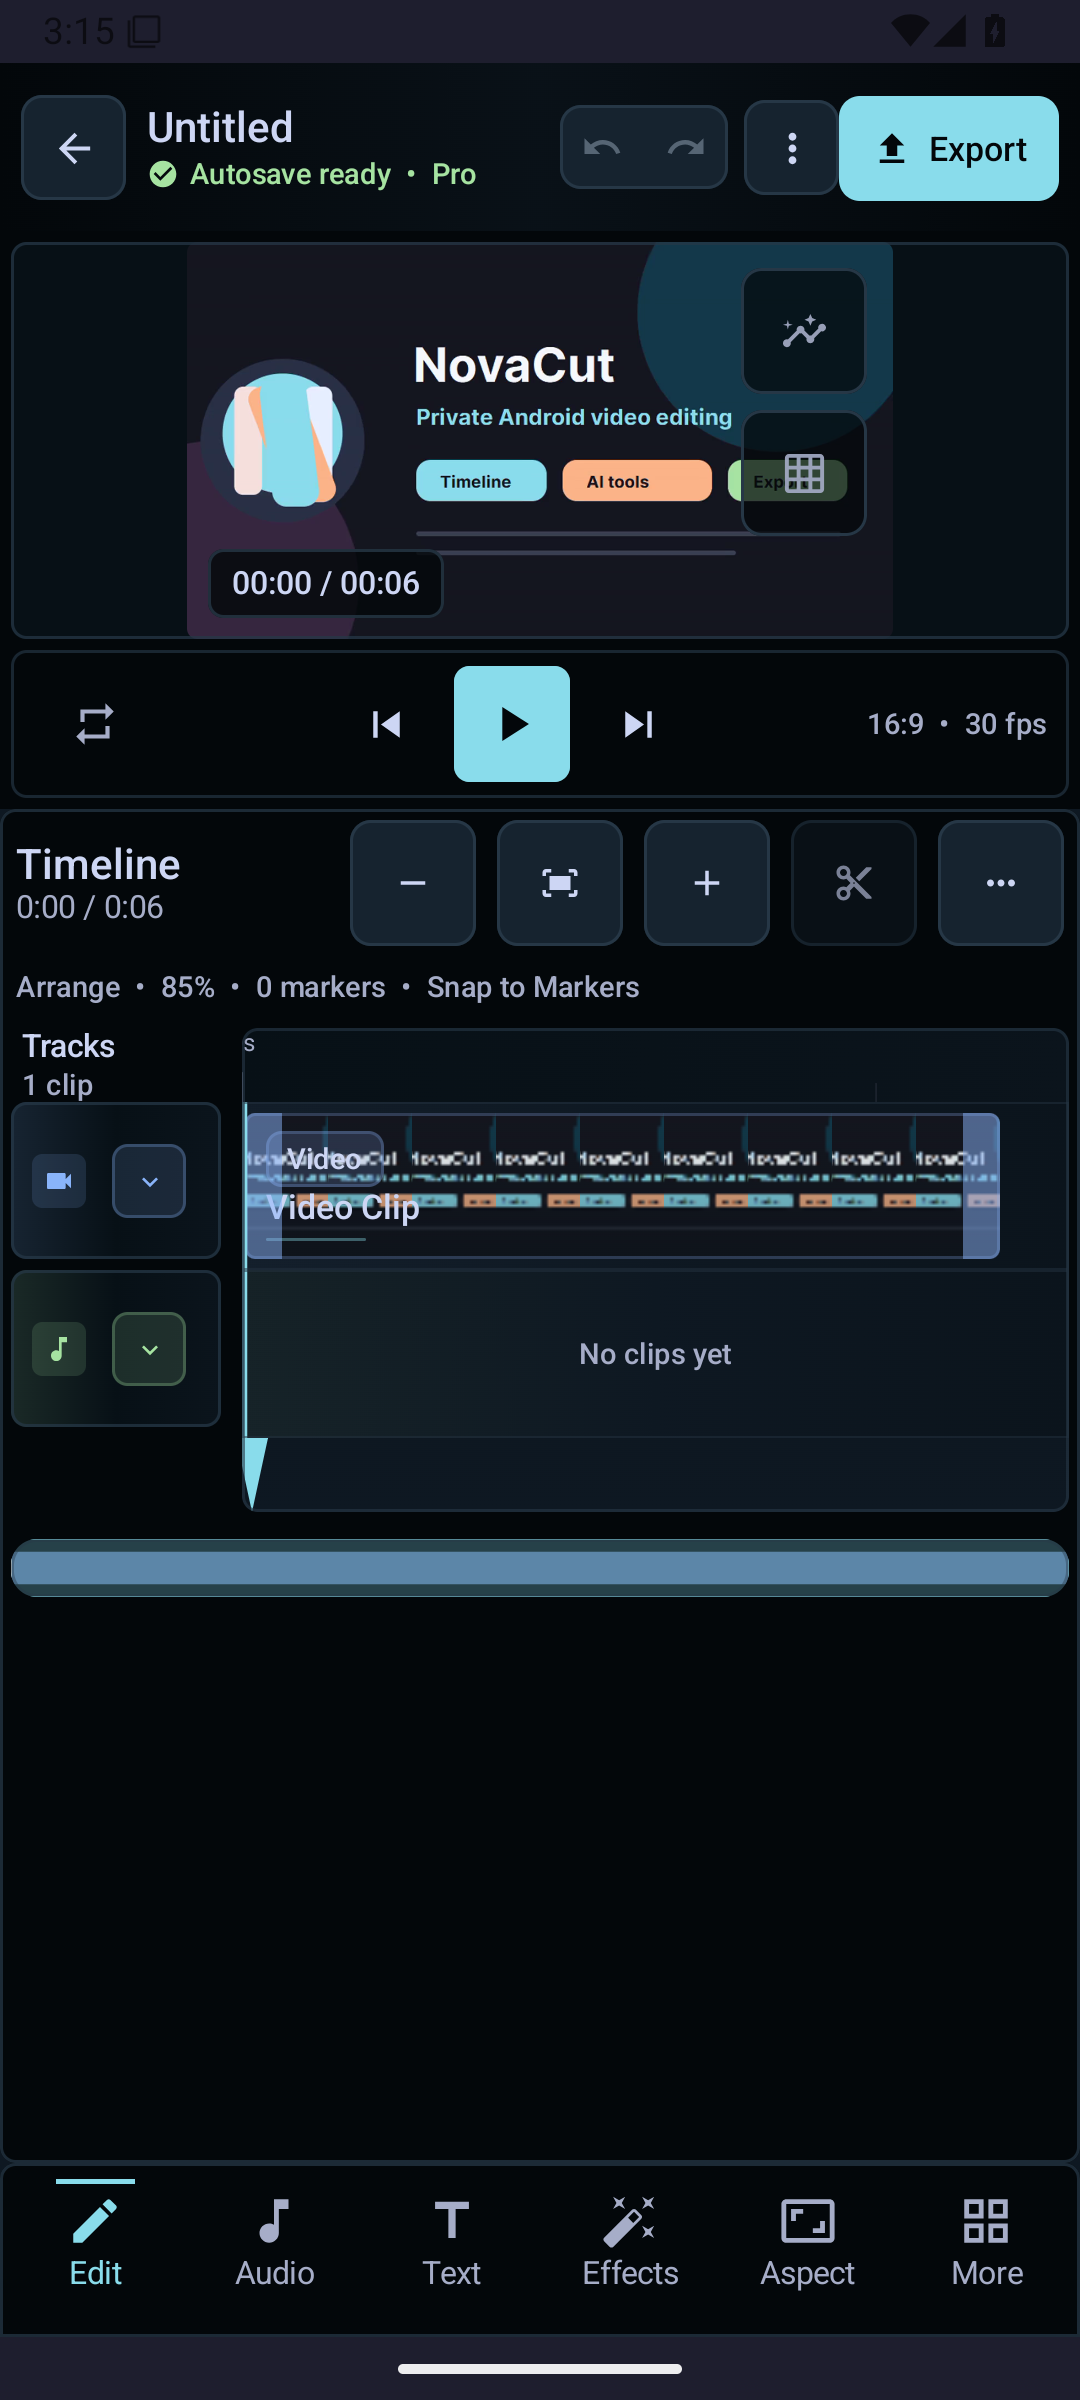
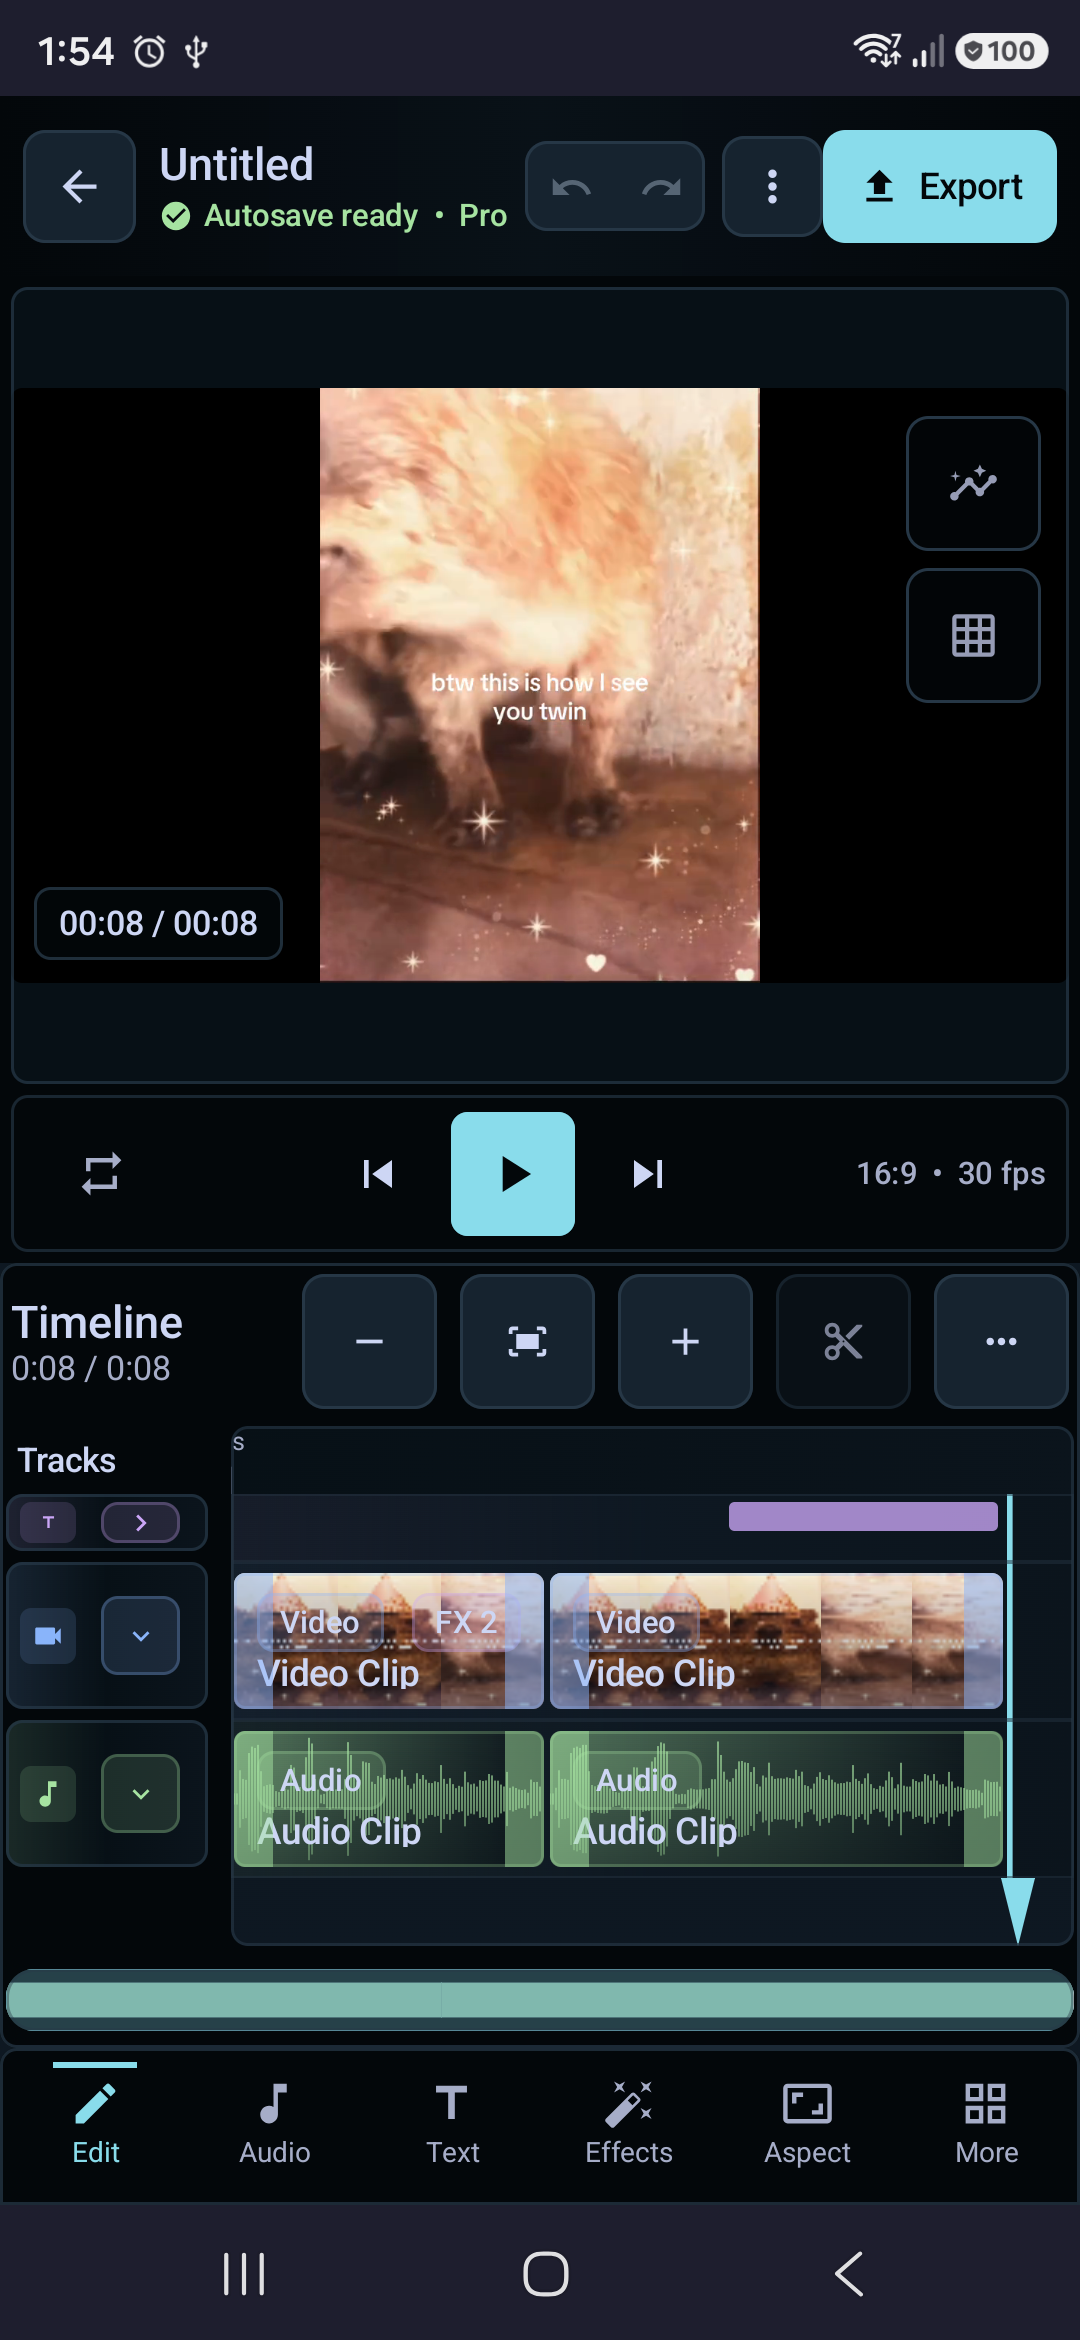
chore: release 3.74.120 editor workspace

diff --git a/app/src/main/java/com/novacut/editor/ui/editor/PreviewPlaybackErrorPolicy.kt b/app/src/main/java/com/novacut/editor/ui/editor/PreviewPlaybackErrorPolicy.kt
@@ -3,6 +3,7 @@ package com.novacut.editor.ui.editor
 import androidx.media3.exoplayer.ExoTimeoutException
 import kotlin.math.abs
 
[email redacted]("UnsafeOptInUsageError")
 internal fun isPreviewSurfaceDetachTimeout(error: Throwable): Boolean {
     var cause: Throwable? = error
     val visited = mutableSetOf<Throwable>()

diff --git a/README.md b/README.md
@@ -4,9 +4,19 @@
 
 <h1 align="center">ClearCut</h1>
 
-[![Version](https://img.shields.io/badge/version-3.74.119-89dceb)](https://github.com/SysAdminDoc/ClearCut/releases)
+[![Version](https://img.shields.io/badge/version-3.74.120-89dceb)](https://github.com/SysAdminDoc/ClearCut/releases)
 [![License](https://img.shields.io/badge/license-MIT-a6e3a1)](LICENSE)
 ![Platform](https://img.shields.io/badge/platform-Android-cba6f7)
+
+### v3.74.120 Editor workspace and playback
+
+- Replaced oversized multi-row tool cards with a compact action rail; Color and FX now open their real editors directly, and tool panels use title-only headers without training copy.
+- Removed automatic tutorials and editing-suggestion banners from the editing workspace so the preview, timeline, and commands remain uninterrupted.
+- Added a persistent Text lane above video for new and restored projects. Text spans render on the lane, tap to edit, and empty lane space opens a new title.
+- Compact phone timelines use tighter chrome, shorter rulers, concise track labels, and a collapsed Text lane to return vertical room to the video preview.
+- Paused Media3 sessions stuck in `BUFFERING` now restart before Play, and the preview no longer shows a permanent loading spinner when playback was not requested.
+- The project home now opens directly on compact create/import, search, filters, and recent work instead of a marketing/training hero.
+- Playback completion retains the final decoded frame instead of misclassifying the exact timeline end as an empty gap.
 
 ### v3.74.119 Timeline edit controls and playback
 